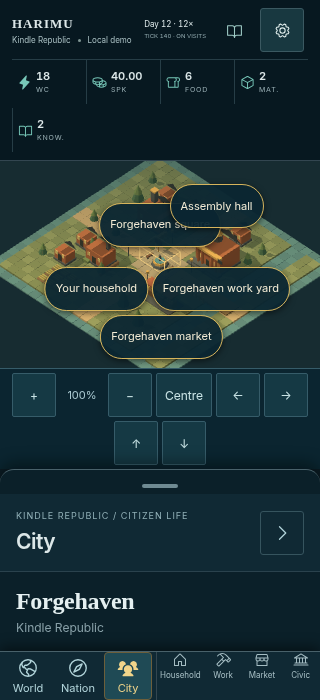
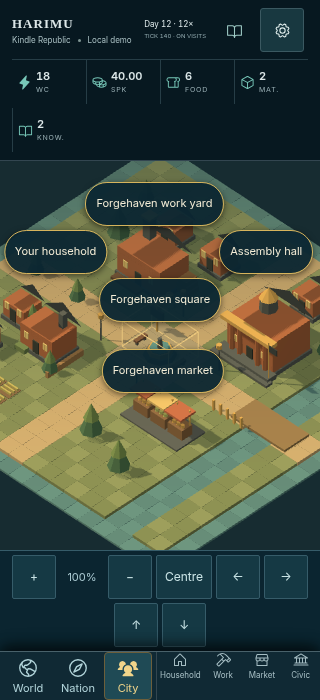
#392 S8 follow-up (#377): phone City scene fills the screen between the bars; tab bar may wrap, never truncates (ARC)

diff --git a/app/game-shell.tsx b/app/game-shell.tsx
@@ -119,6 +119,15 @@ export function GameShell({ worldClock, holidayName, nextDeadline, view, nation,
   // #379: a visitor (guest, signed out, local demo, or signed in with no citizenship yet) is not a citizen. `visitorSession` comes from isVisitorSession(), which is false while the session loads or errors, so a citizen reloading a city never sees visitor wording and the scene is not rebuilt after load.
   const visitor = !citizenNation && visitorSession;
   const hasPanel = !collapsed;
+  // #392 S8 follow-up (#377): on a phone the scene fills the screen between the top bar and the bottom tab bar (and citizen dock); CSS reads these heights.
+  const mobileV2 = uiV2MobileEnabled();
+  useEffect(() => {
+    if (!mobileV2 || typeof ResizeObserver === 'undefined') return;
+    const root = document.querySelector<HTMLElement>('.harimu-game.game-mobile-v2'); if (!root) return;
+    const sync = () => { for (const [name, sel] of [['--s8-top', '.game-hud'], ['--s8-tabs', '.game-nav-row'], ['--s8-dock', '.citizen-dock']] as const) root.style.setProperty(name, `${root.querySelector(sel)?.getBoundingClientRect().height ?? 0}px`); };
+    const observer = new ResizeObserver(sync); for (const el of root.querySelectorAll('.game-hud, .game-nav-row, .citizen-dock')) observer.observe(el); sync();
+    return () => observer.disconnect();
+  }, [mobileV2, view]);
   useEffect(() => { document.getElementById('game-details')?.querySelector('.game-inspector-body')?.scrollTo({top:0,left:0}); }, [view,nation.id]);
   const close = () => { setCollapsed(true); setSelection(null); requestAnimationFrame(() => document.getElementById('game-reopen')?.focus()); };
   useEffect(() => {

diff --git a/app/game-shell.css b/app/game-shell.css
@@ -440,6 +440,10 @@ body:has(.harimu-game){overflow:auto}
   .game-mobile-v2.game-rail-on .game-nav-row{grid-row:8;position:sticky;bottom:0;z-index:8;border-top:1px solid #49616a;border-bottom:0;box-shadow:0 -4px 12px #0007}
   .game-mobile-v2.game-rail-on:has(.citizen-dock) .game-nav-row{bottom:45px}
   .game-mobile-v2 .game-inspector{border-top:1px solid #49616a;border-radius:14px 14px 0 0;box-shadow:0 -6px 16px #0006;padding-top:14px}
+  /* S8 follow-up (#377, ARC): the City scene is the screen minus the bars (heights from app/game-shell.tsx); 44dvh / 260px stay as the fallback */
+  .harimu-game.game-mobile-v2.game-city-v2{grid-template-rows:auto minmax(calc(40px * var(--text-scale, 1)),auto) auto 0 minmax(0,auto)}
+  .game-mobile-v2.game-city-v2 .game-stage{min-height:0;height:max(200px,calc(100dvh - var(--s8-top,0px) - var(--s8-tabs,0px) - var(--s8-dock,0px)))}
+  .game-mobile-v2.game-city-v2:not([style*="--s8-top"]) .game-stage{height:44dvh}
   .game-mobile-v2 .game-inspector::before{content:"";display:block;width:36px;height:4px;margin:0 auto 6px;border-radius:2px;background:#6f8a92}
 }
 /* #85: nation skin PoC on the top bar (NEXT_PUBLIC_HARIMU_NATION_SKIN; app/game-shell.tsx sets data-nation-skin only for a signed-in Kindle, Korund or Aurelle citizen).
